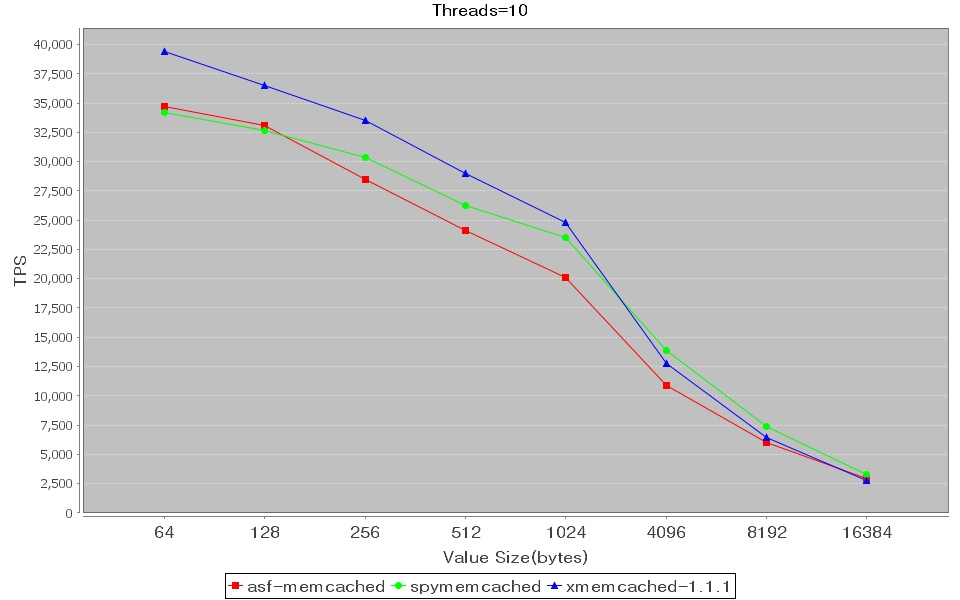
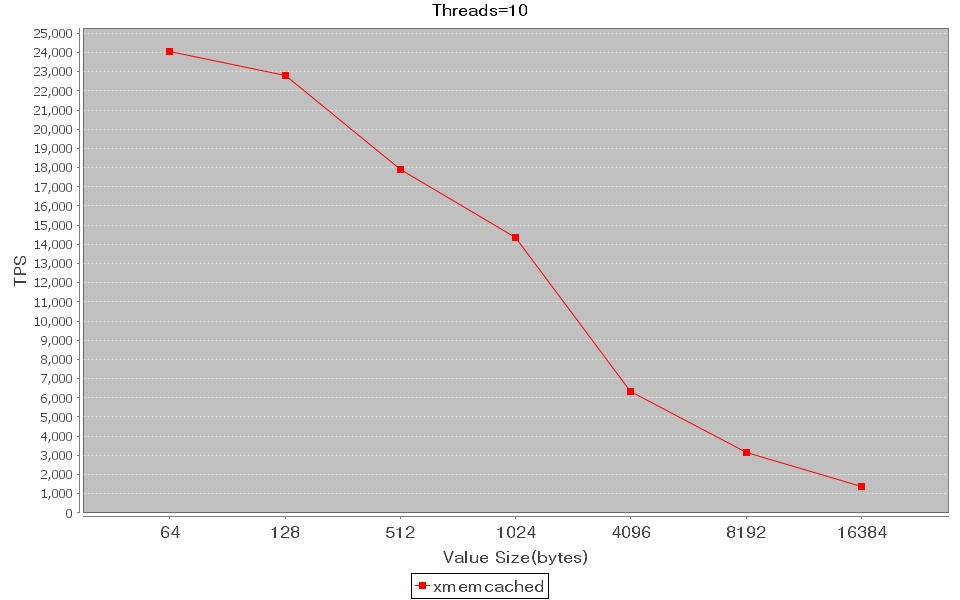
Update Xmemcached Test Result

diff --git a/benchmark/benchmark.html b/benchmark/benchmark.html
@@ -21,10 +21,10 @@ URL:
 <a href="http://xmemcached.googlecode.com/svn/trunk/benchmark/benchmark.html">http://xmemcached.googlecode.com/svn/trunk/benchmark/benchmark.html</a>
 
 <p style="text-align: justify;">There are several memcached client
-for java,include <a href="http://code.google.com/p/spymemcached">spymemcached</a>, &nbsp;<a
-	href="http://code.google.com/p/memcache-client-forjava/">memcached-client-forjava(A optimiezed Java-MemCached)</a> and <a
-	href="http://code.google.com/p/xmemcached/">xmemcached</a> etc. The
-performance numbers of the 3 open source memcached client are presented
+for java,include <a href="http://code.google.com/p/spymemcached">spymemcached</a>, &nbsp;<a href="http://www.whalin.com/memcached/">Java-MemCached</a> , <a
+	href="http://code.google.com/p/xmemcached/">Xmemcached</a> and <a
+	href="http://code.google.com/p/memcache-client-forjava/">memcached-client-forjava(A optimiezed Java-MemCached)</a> etc. The
+performance numbers of the 4 open source memcached client are presented
 here to help you make choice.</p>
 
 <h2>Where's the Graph?</h2>
@@ -39,8 +39,7 @@ machine</p>
 
 <p style="text-align: justify;">A java client connect to memcached
 server,then start numbers of threads to repeat themself to store and
-retrive data from memcachd concurrently,write 30% and read 70%,ensure
-hit rate reach 70%</p>
+retrive data from memcachd concurrently,write 30% and read 70%.</p>
 
 <h2>Test Environment</h2>
 
@@ -50,7 +49,7 @@ hit rate reach 70%</p>
 		<li>Memcached Server
 		<ul>
 			<li>Version is 1.2.8,default install configuration.</li>
-			<li>Start with option "-p 12000 -m 4096"</li>
+			<li>Start with option "-p 12000 -m 8192"</li>
 		</ul>
 		</li>
 		<li>Java Client
